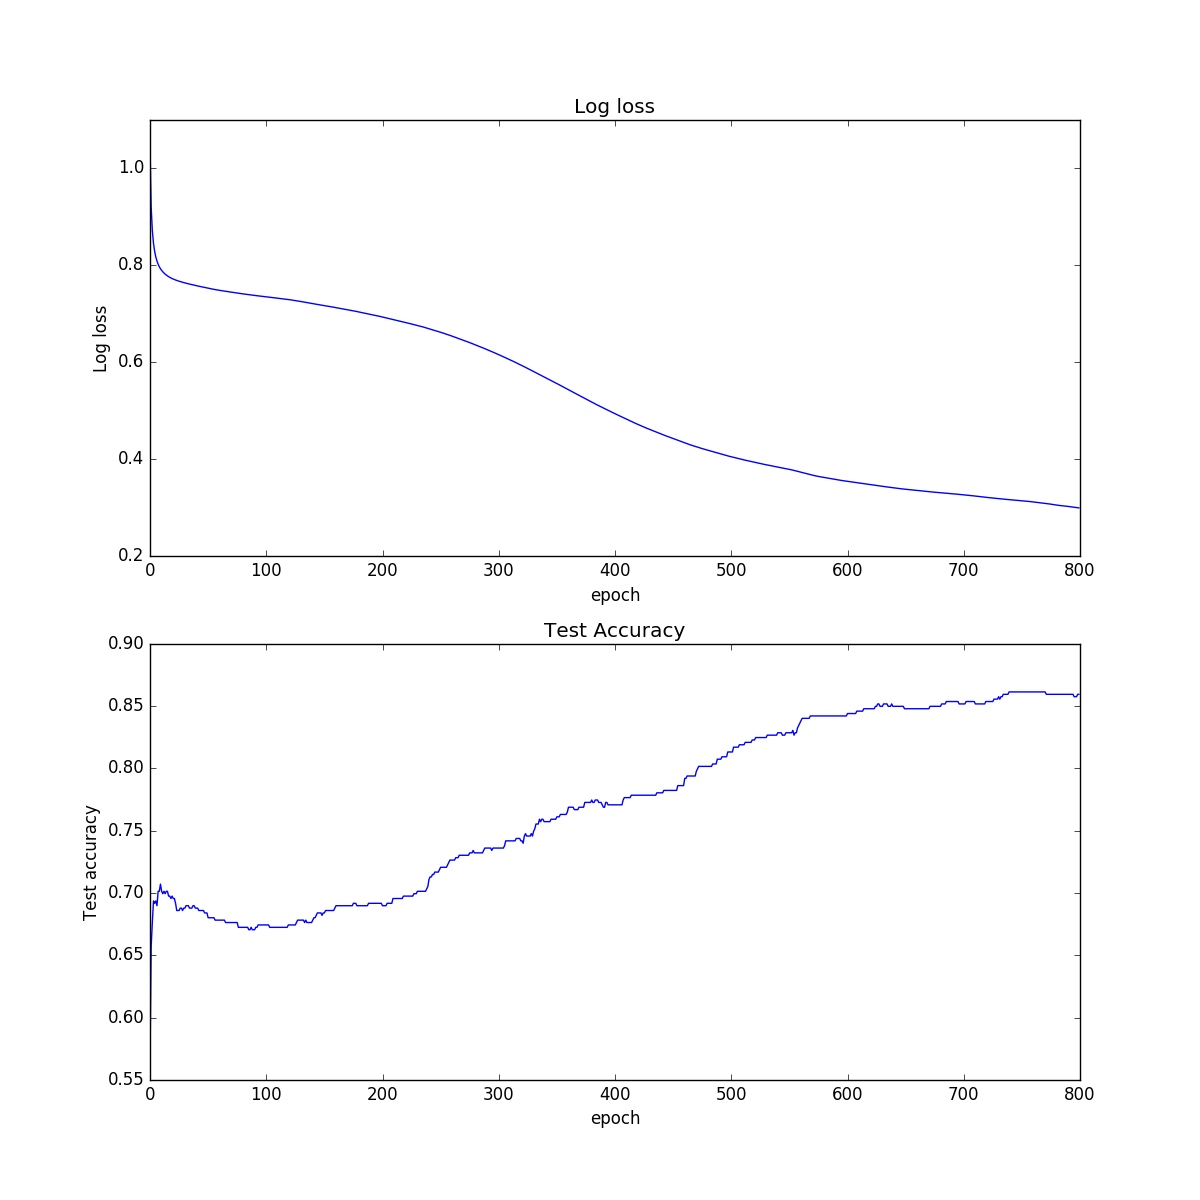
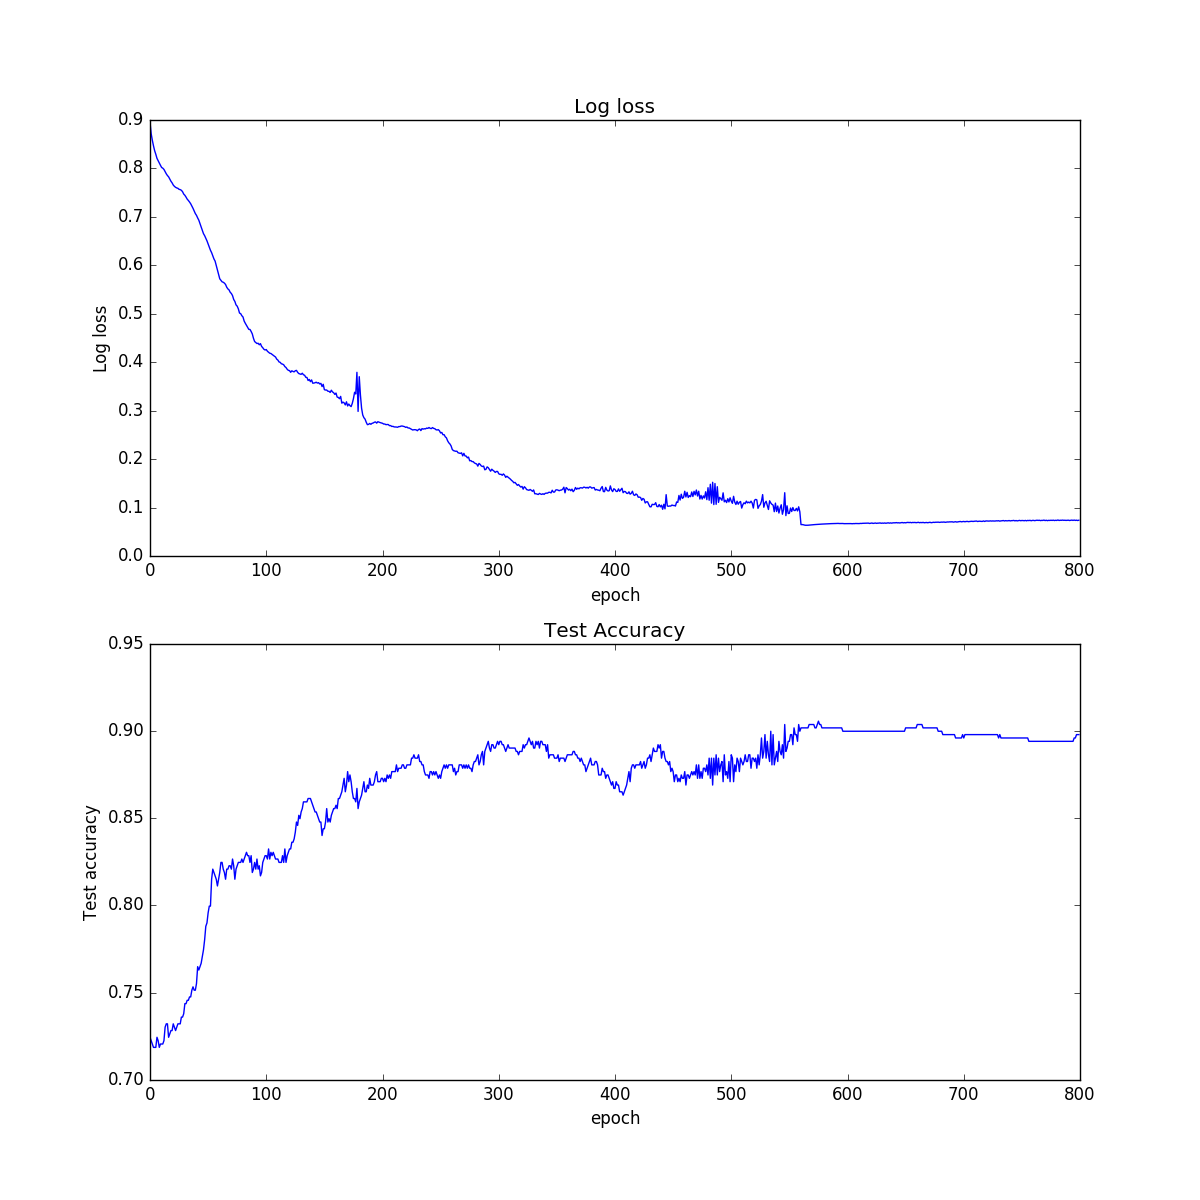
Add comments to 'Task 6.2.ipynb'

diff --git a/mlp_with_shortcut.py b/mlp_with_shortcut.py
@@ -25,7 +25,6 @@ class Network:
         self.batch_size = batch_size
         self.learning_rate = learning_rate
 
-
     def xavier_init(self):
         # followed the next explanation of Xavier initialization
         # https://www.quora.com/What-is-an-intuitive-explanation-of-the-Xavier-Initialization-for-Deep-Neural-Networks
@@ -68,14 +67,14 @@ class Network:
         self.z_2_with_skip_connection = self.z_2 + self.w_s.dot(x)
 
         self.a_3 = self.w_out.dot(self.z_2_with_skip_connection) + self.b_out
-        if third_layer_activation=='Softmax':
+        if third_layer_activation == 'Softmax':
             self.y_pred = Softmax.activation(self.a_3)
-        elif third_layer_activation=='Tanh':
+        elif third_layer_activation == 'Tanh':
             self.y_pred = Tanh.activation(self.a_3)
         else:
             raise ValueError("Unknown activation type for 3rd layer")
-        # self.y_pred.reshape((1,len(self.y_pred)))
-        # self.y_pred = softmax(self.a_3)
+            # self.y_pred.reshape((1,len(self.y_pred)))
+            # self.y_pred = softmax(self.a_3)
 
     def _backward_pass(self, y_true):
         """
@@ -117,19 +116,17 @@ class Network:
         # delta /= len(y_true)
         return delta
 
-
     def _cross_entropy_loss(self, y_true):
         '''
         :param y_true: ground truth class labels (n_samples, n_classes)
         :return: cross entropy loss
         '''
         m = y_true.shape[0]
-        log_likelihood = -np.sum(np.multiply(y_true,np.log(self.y_pred.T)))
+        log_likelihood = -np.sum(np.multiply(y_true, np.log(self.y_pred.T)))
         loss = np.sum(log_likelihood) / m
         return loss
 
-
-    def fit(self, x_train, y_train, x_test, y_test, n_epochs=500, third_layer_activation = 'Softmax'):
+    def fit(self, x_train, y_train, x_test, y_test, n_epochs=500, third_layer_activation='Softmax'):
         """
         Train neural network.
         :param x_train: (n_features, n_samples)
@@ -173,6 +170,7 @@ class Network:
     def score(self, X, y_true):
         y_test_pred = self.predict(X, 'Softmax')
         test_acc = get_accuracy(y_true, y_test_pred)
+
 
 def get_accuracy(true_values, prediction):
     '''

diff --git a/main.py b/main.py
@@ -116,7 +116,7 @@ if __name__ == '__main__':
     dim_out = 4
 
     learning_rate = 0.007
-    n_epochs = 16
+    n_epochs = 600
     batch_size = 13
 
     run_grid_search = False
